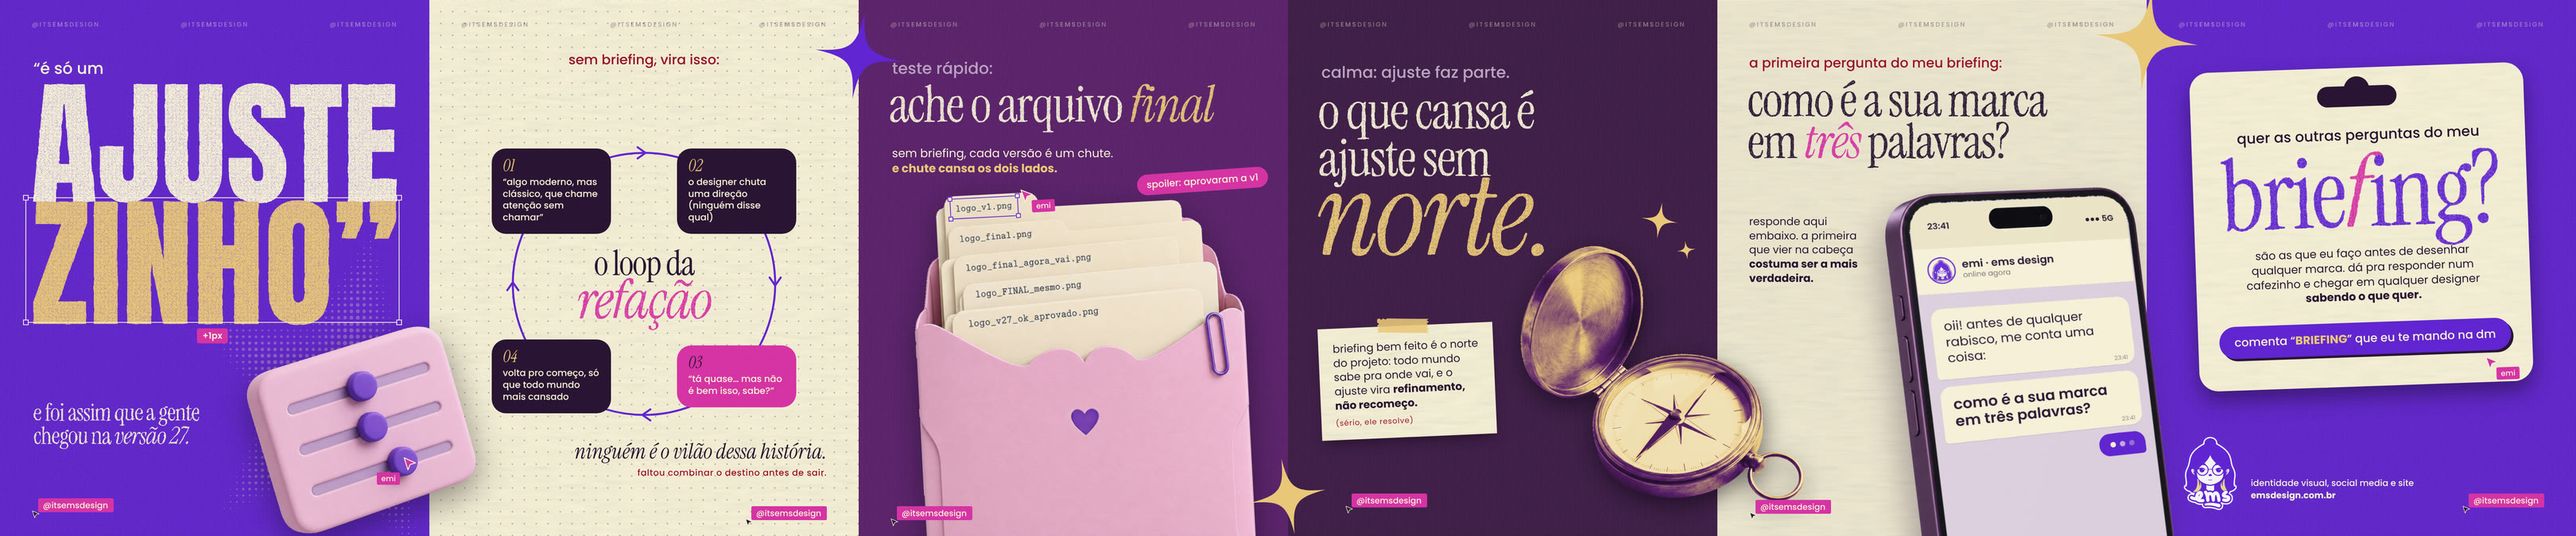
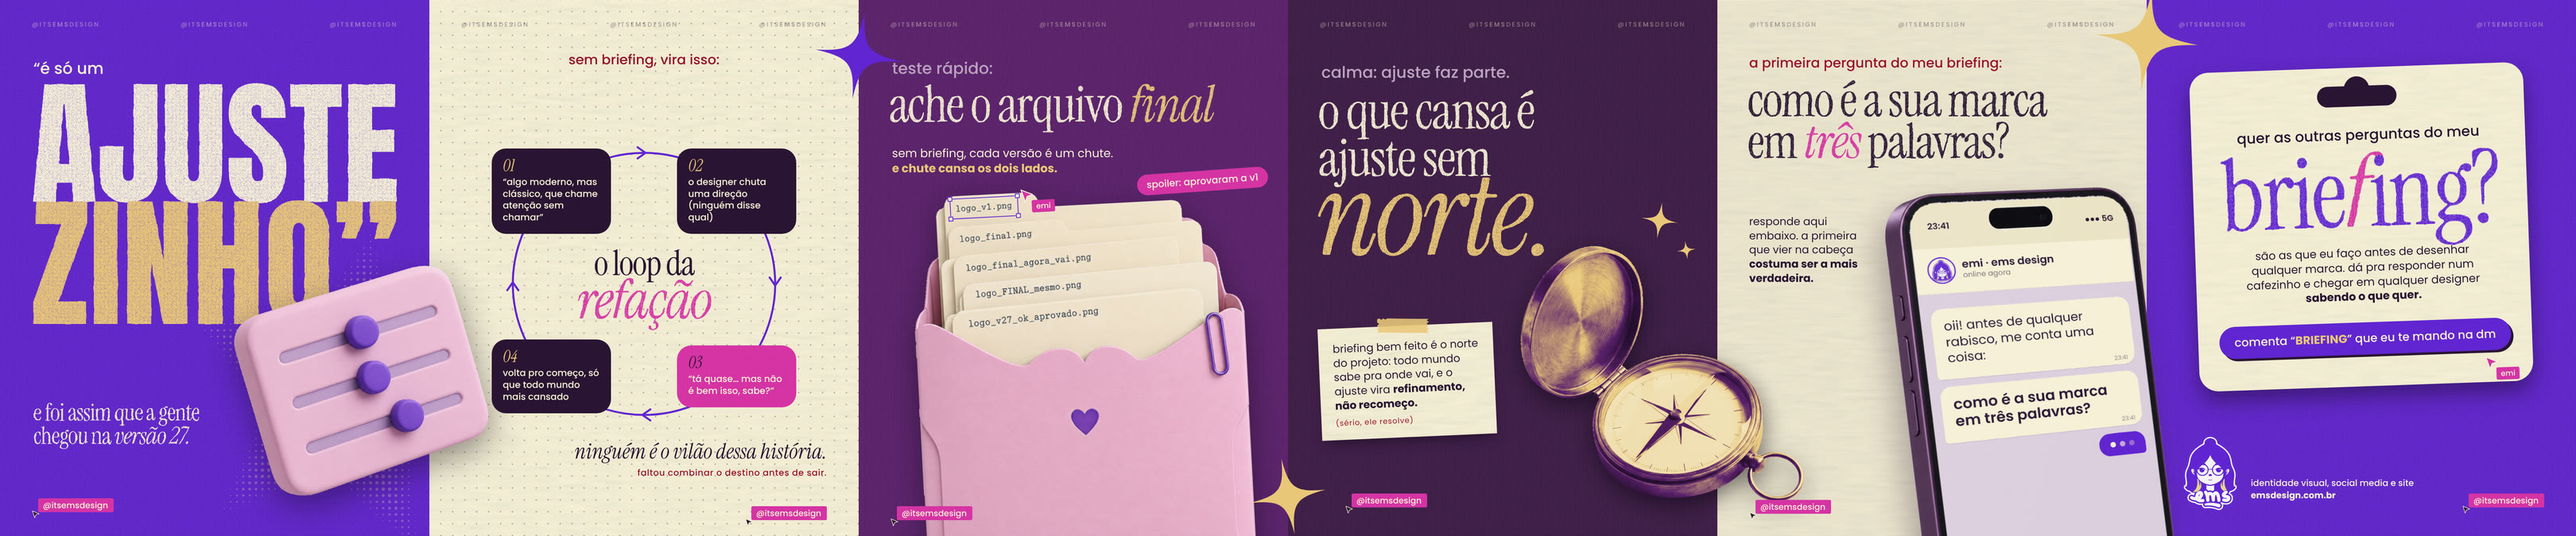
Ajustezinho v8, capa: sem seleção e cursor (já estão nas lâminas 3 e 6)
O painel de Ajustes passa a invadir o pé do ZINHO, fazendo o objeto
conversar com o título sem repetir recurso de outra lâmina.

Claude-Session: https://claude.ai/code/session_01CmCiK8ktcTUDK4gcGU9jQJ

Changed region(s): [[0.0623, 0.4978, 0.2182, 1.0]]

diff --git a/Emi/ems-so-um-ajustezinho/projeto/carrossel-v8.html b/Emi/ems-so-um-ajustezinho/projeto/carrossel-v8.html
@@ -89,17 +89,11 @@ body{background:#140a19;width:max-content}
 #l1 .poster span{display:block;white-space:nowrap}
 #l1 .poster .p1{color:var(--ivory)}
 #l1 .poster .p2{color:var(--manteiga)}
-#l1 .ajustes{left:640px;top:850px;width:540px;transform:rotate(-10deg);z-index:3;filter:drop-shadow(0 26px 40px rgba(20,8,25,.45))}
+#l1 .ajustes{left:610px;top:700px;width:600px;transform:rotate(-10deg);z-index:3;filter:drop-shadow(0 26px 40px rgba(20,8,25,.45))}
 #l1 .frase{left:84px;top:1010px;font-size:60px;line-height:.98;color:var(--ivory);z-index:4}
 #l1 .frase em{color:var(--ivory)}
 #l1 .handle{left:96px;bottom:60px}
 #l1 .estrela{left:0;top:0;width:1080px;height:1350px;z-index:1;pointer-events:none}
-/* moldura de seleção do Figma (SelectionBox) em volta do "ZINHO”", com a etiqueta de medida */
-#l1 .selz{border:2px solid var(--ivory);z-index:5;pointer-events:none}
-#l1 .selz i{position:absolute;width:14px;height:14px;background:var(--violeta);border:2px solid var(--ivory)}
-#l1 .selz i:nth-of-type(1){left:-8px;top:-8px}#l1 .selz i:nth-of-type(2){right:-8px;top:-8px}
-#l1 .selz i:nth-of-type(3){left:-8px;bottom:-8px}#l1 .selz i:nth-of-type(4){right:-8px;bottom:-8px}
-#l1 .selz .medida{position:absolute;left:50%;bottom:-54px;transform:translateX(-50%);background:var(--pink);color:var(--ivory);font:600 22px/1 var(--sans);padding:8px 14px;border-radius:6px;white-space:nowrap}
 
 /* ---------- 02 loop: o desenho é o próprio loop ---------- */
 #l2 .lead{left:0;right:0;top:132px;text-align:center;font-size:34px;color:var(--wine)}
@@ -202,11 +196,9 @@ body{background:#140a19;width:max-content}
   <div class="agua" style="color:var(--ivory)"><span>@ITS<b>EMS</b>DESIGN</span><span>@ITS<b>EMS</b>DESIGN</span><span>@ITS<b>EMS</b>DESIGN</span></div>
   <p class="lead">“é só um</p>
   <svg class="estrela" data-estrela="cx:860,cy:1000,R:440,cor:#c0a5c4,rot:10"></svg>
-  <div class="selz" id="selz"><i></i><i></i><i></i><i></i><span class="medida">+1px</span></div>
   <h1 class="poster impresso" id="poster"><span class="p1">ajuste</span><span class="p2">zinho”</span></h1>
   <!-- na frente da palavra e atravessando o corte 1|2 -->
   <img class="ajustes" src="recortes/ajustes-3d.png" alt="">
-  <div class="emi" id="emi-capa" style="left:1012px;top:1150px"><svg width="38" height="38" viewBox="0 0 24 24"><path d="M3 2 L21 10 L12.5 12.5 L9 21 Z" fill="#dd34a8" stroke="#fffbde" stroke-width="1.5" stroke-linejoin="round"/></svg><span style="left:-64px;top:40px">emi</span></div>
   <p class="serif frase impresso">e foi assim que a gente<br>chegou na <em>versão 27.</em></p>
   <span class="handle">@itsemsdesign<svg width="22" height="22" viewBox="0 0 24 24"><path d="M3 2 L21 10 L12.5 12.5 L9 21 Z" fill="#2a1433" stroke="#fffbde" stroke-width="1.5" stroke-linejoin="round"/></svg></span>
   <div class="tela"></div><div class="grao"></div>
@@ -341,14 +333,6 @@ function estrela(svg){
 }
 document.querySelectorAll('[data-estrela]').forEach(estrela);
 
-function posicionaSel() {
-  const sp = document.querySelector('#poster .p2'), lam = document.getElementById('l1').getBoundingClientRect();
-  const r = document.createRange(); r.selectNodeContents(sp); const b = r.getBoundingClientRect();
-  const el = document.getElementById('selz'), pad = 14;
-  // altura da caixa = a altura real das letras (cap-height da Anton ~ .72em)
-  const fs = parseFloat(getComputedStyle(sp).fontSize), cap = fs * .80, top = b.top - lam.top + (b.height - cap) / 2 - fs * .025;
-  Object.assign(el.style, { left: (b.left - lam.left - pad) + 'px', top: (top - pad) + 'px', width: (b.width + pad) + 'px', height: (cap + 2 * pad) + 'px' });
-}
 function ajustaPoster() {
   const box = document.getElementById('poster'), W = box.clientWidth;
   box.querySelectorAll('span').forEach(sp => {
@@ -356,7 +340,7 @@ function ajustaPoster() {
     const w = sp.getBoundingClientRect().width; sp.style.fontSize = (100 * W / w).toFixed(1) + 'px'; sp.style.display = 'block';
   });
 }
-Promise.all([document.fonts.ready, ...[...document.images].map(i => i.decode().catch(() => {}))]).then(() => { ajustaPoster(); posicionaEtapas(); posicionaSel(); window.READY = true; });
+Promise.all([document.fonts.ready, ...[...document.images].map(i => i.decode().catch(() => {}))]).then(() => { ajustaPoster(); posicionaEtapas(); window.READY = true; });
 </script>
 </body>
 </html>

diff --git a/Emi/ems-so-um-ajustezinho/README.md b/Emi/ems-so-um-ajustezinho/README.md
@@ -19,7 +19,7 @@ Referência de formato: post da @agrizzart sobre manter o perfil ativo com a age
 - **v1** (`entrega/v1/`, `projeto/carrossel.html`): primeira versão, digital e chapada.
 - **v7** (`entrega/v7/`, `projeto/carrossel-v7.html`): a disciplina da lâmina aprovada (a da bússola) em todas; capa-pôster; pasta como janela monocromática; celular desenhado em código.
 - **v8** (`entrega/v8/`, `projeto/carrossel-v8.html`): **em teste.** Igual à v7, mas com **objetos 3D gerados**, recortados e montados sobre os fundos de textura da EMS:
-  - **capa:** o papel amassado (que incomodava a Emi) sai e entra um **painel de Ajustes 3D** (os controles deslizantes do Photoshop/Lightroom, em rosa e violeta), com o cursor "emi" puxando o último controle só um tiquinho; o painel atravessa o corte para a lâmina 2. Para o objeto conversar com o título: `SelectionBox` (moldura do Figma) em volta do "ZINHO”" com a etiqueta rosa "+1px" (a piada do ajustezinho) e a estrela em retícula lavanda atrás do painel. Foram descartadas antes: teclas (a Emi já fez capa com teclas) e fita métrica (costura não tem a ver com design);
+  - **capa:** o papel amassado (que incomodava a Emi) sai e entra um **painel de Ajustes 3D** (os controles deslizantes do Photoshop/Lightroom, em rosa e violeta), com um dos controles puxado só um tiquinho; o painel invade o pé do "ZINHO”" (objeto na frente da palavra) e atravessa o corte para a lâmina 2, com a estrela em retícula lavanda atrás. Seleção do Figma e cursor "emi" ficaram de fora da capa porque já aparecem nas lâminas 3 e 6. Foram descartadas antes: teclas (a Emi já fez capa com teclas) e fita métrica (costura não tem a ver com design);
   - **pasta-envelope rosa com coração violeta** (escolhida pela Emi entre a rosa e uma lilás com elástico; a primeira, amarela, foi achada "feinha"), com as fichas das versões saindo de dentro (nomes datilografados já na imagem), `SelectionBox` + cursor "emi" na `logo_v1.png` e o aviso "spoiler: aprovaram a v1" (referência 17 da pesquisa);
   - **celular 3D ameixa** com a conversa na tela ("oii! antes de qualquer rabisco, me conta uma coisa:" + "como é a sua marca em três palavras?" + digitando), como a Emi preferiu; conteúdo encaixado em perspectiva nos 4 cantos da tela, respeitando a ilha (referência 10).
 
